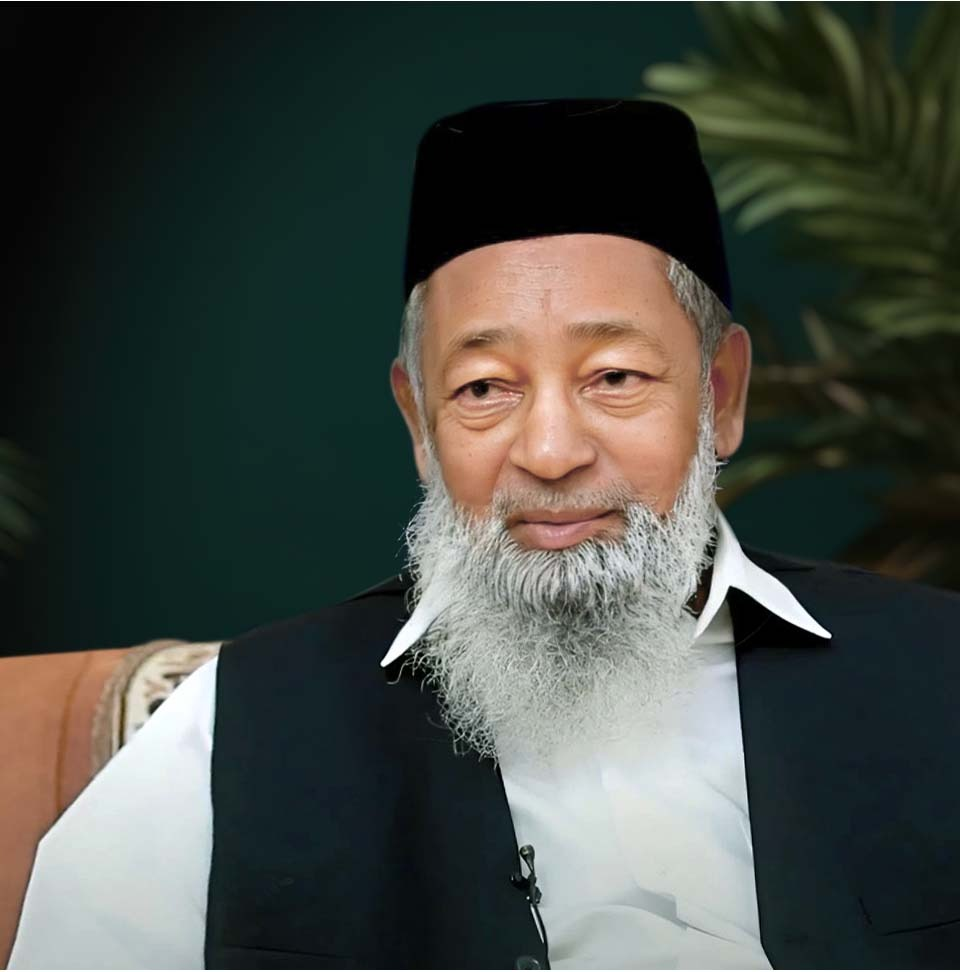
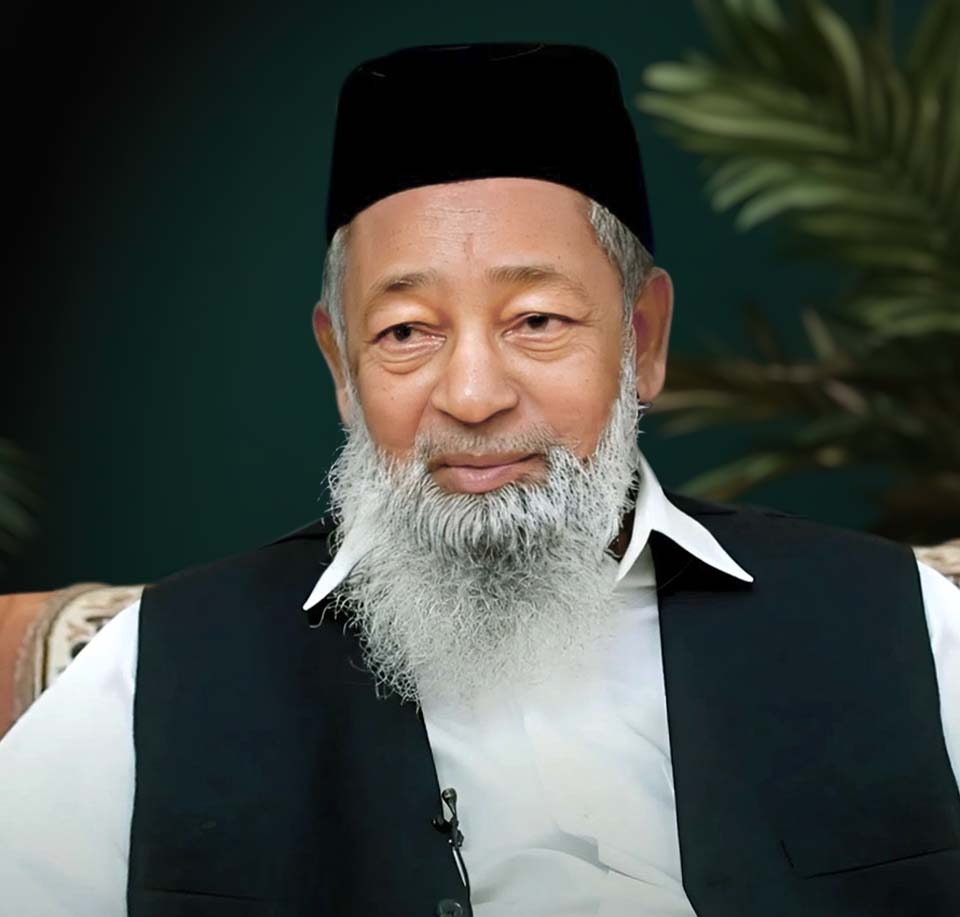
change size

diff --git a/new/single3.html b/new/single3.html
@@ -251,41 +251,49 @@
   </div>
   </div>
 
-  <section id="leadership-portraits"
-    class="w-full h-[calc(100vh-132px)] flex flex-col lg:flex-row bg-white overflow-hidden">
+ <section id="leadership-portraits"
+  class="w-full min-h-screen flex flex-col lg:flex-row bg-white overflow-hidden">
 
-    <!-- Founding Chairman -->
-    <div class="relative w-full lg:w-1/2 h-1/2 md:h-full overflow-hidden group">
-      <img data-aos="zoom-out" data-aos-duration="1500" src="assets/img/Mahan2.jpg" alt="Founding Chairman U. Mahan"
-        class="w-full h-full object-cover object-top transition-transform duration-500 group-hover:scale-105">
-      <div class="absolute inset-0 bg-gradient-to-t from-black/70 via-black/30 to-transparent"></div>
-      <div data-aos="fade-right" data-aos-duration="1500" class="absolute bottom-0 left-0 w-full p-6 z-10">
-        <h3 class="text-2xl font-bold text-white heading-font">lorem</h3>
-        <p class="text-emerald-200 mb-4">Lorem, ipsum.</p>
-        <button
-          class="bg-white/60 hover:bg-white/80 text-[#24544a] px-4 py-2 rounded-md text-sm font-semibold transition">
-          Learn More
-        </button>
-      </div>
-      <div class="absolute inset-0 bg-black/10 group-hover:bg-black/20 transition-all duration-300"></div>
+  <!-- Chairman 1 -->
+  <div class="relative w-full md:w-1/2 aspect-square md:aspect-auto md:h-screen overflow-hidden group">
+    <img data-aos="zoom-out" data-aos-duration="1500"
+      src="assets/img/Mahan2.jpg" alt="Dr. Sheikh Nizamudhin Sulthan Shah Qadiri Chishthi"
+      class="w-full h-full object-cover object-top transition-transform duration-500 group-hover:scale-105" />
+    <div class="absolute inset-0 bg-gradient-to-t from-black/70 via-black/30 to-transparent"></div>
+    <div data-aos="fade-right" data-aos-duration="1500" class="absolute bottom-0 left-0 w-full p-6 z-10">
+      <h3 class="text-lg font-bold text-white heading-font uppercase">
+        Dr. Sheikh Nizamudhin Sulthan Shah Qadiri Chishthi
+      </h3>
+      <p class="text-emerald-200 mb-4">Current Chairman</p>
+      <button
+        class="bg-white/60 hover:bg-white/80 text-[#24544a] px-4 py-2 rounded-md text-sm font-semibold transition">
+        Learn More
+      </button>
     </div>
+    <div class="absolute inset-0 bg-black/10 group-hover:bg-black/20 transition-all duration-300"></div>
+  </div>
 
-    <!-- Current Chairman -->
-    <div class="relative w-full lg:w-1/2 h-1/2 md:h-full overflow-hidden group">
-      <img data-aos="zoom-out" data-aos-duration="1500" src="assets/img/Mahan.jpg" alt="Current Chairman N. Mahan"
-        class="w-full h-full object-cover object-top transition-transform duration-500 group-hover:scale-105">
-      <div class="absolute inset-0 bg-gradient-to-t from-black/70 via-black/30 to-transparent"></div>
-      <div data-aos="fade-right" data-aos-duration="1500" class="absolute bottom-0 left-0 w-full p-6 z-10">
-        <h3 class="text-2xl font-bold text-white heading-font">lorem</h3>
-        <p class="text-emerald-200 mb-4">Lorem, ipsum.</p>
-        <button
-          class="bg-white/60 hover:bg-white/80 text-[#24544a] px-4 py-2 rounded-md text-sm font-semibold transition">
-          Learn More
-        </button>
-      </div>
-      <div class="absolute inset-0 bg-black/10 group-hover:bg-black/20 transition-all duration-300"></div>
+  <!-- Chairman 2 -->
+  <div class="relative w-full md:w-1/2 aspect-square md:aspect-auto md:h-screen overflow-hidden group">
+    <img data-aos="zoom-out" data-aos-duration="1500"
+      src="assets/img/Mahan.jpg" alt="Dr. SHEIKH SUFI MUHAMMAD YOUSUF SULTAN SHAH QADIRI CHISHTI"
+      class="w-full h-full object-cover object-top transition-transform duration-500 group-hover:scale-105" />
+    <div class="absolute inset-0 bg-gradient-to-t from-black/70 via-black/30 to-transparent"></div>
+    <div data-aos="fade-right" data-aos-duration="1500" class="absolute bottom-0 left-0 w-full p-6 z-10">
+      <h3 class="text-lg font-bold text-white heading-font">
+        Dr. SHEIKH SUFI MUHAMMAD YOUSUF SULTAN SHAH QADIRI CHISHTI
+      </h3>
+      <p class="text-emerald-200 mb-4">Founding Chairman</p>
+      <button
+        class="bg-white/60 hover:bg-white/80 text-[#24544a] px-4 py-2 rounded-md text-sm font-semibold transition">
+        Learn More
+      </button>
     </div>
-  </section>
+    <div class="absolute inset-0 bg-black/10 group-hover:bg-black/20 transition-all duration-300"></div>
+  </div>
+
+</section>
+
 
 
 
